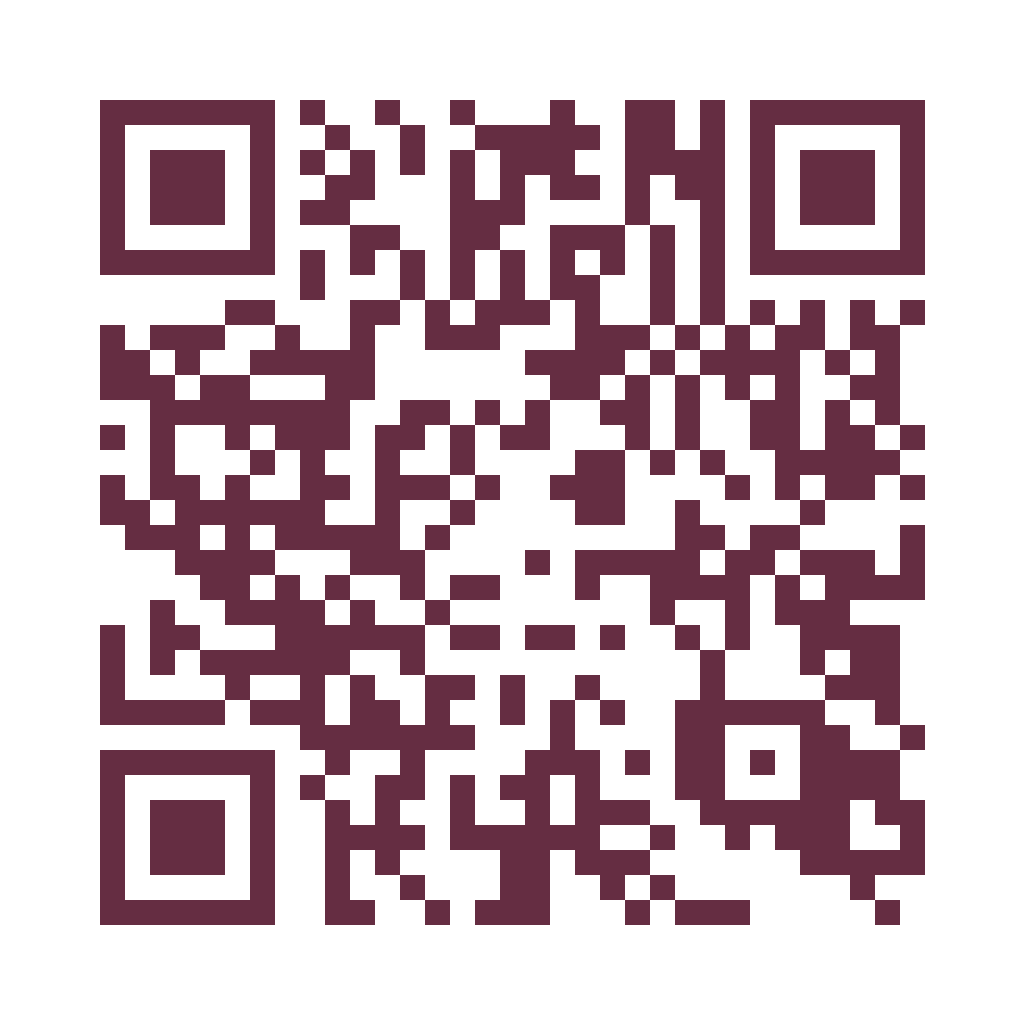
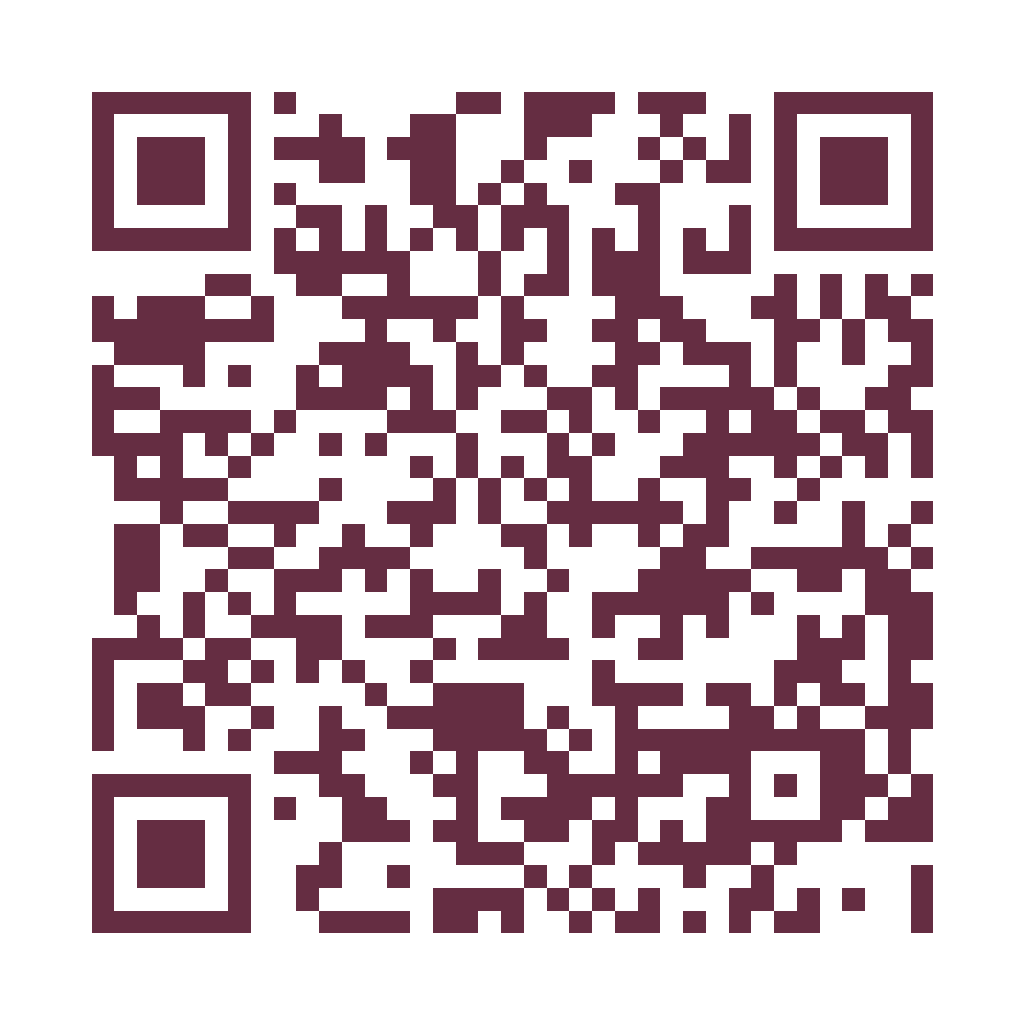
Update productionUrl to https://suprise-kohl-psi.vercel.app and regenerate QR assets

diff --git a/src/App.jsx b/src/App.jsx
@@ -17,6 +17,35 @@ import { QrCode, X, ExternalLink, Printer } from 'lucide-react';
 export default function App() {
   const [hasOpenedIntro, setHasOpenedIntro] = useState(false);
   const [showQrModal, setShowQrModal] = useState(false);
+  const [liveQrDataUrl, setLiveQrDataUrl] = useState('/assets/qr-code.png');
+  const [activeUrl, setActiveUrl] = useState(loveStoryConfig.productionUrl);
+
+  useEffect(() => {
+    const currentOrigin =
+      typeof window !== 'undefined' && window.location.origin.startsWith('http') && !window.location.origin.includes('localhost')
+        ? window.location.origin
+        : loveStoryConfig.productionUrl;
+
+    setActiveUrl(currentOrigin);
+
+    import('qrcode').then((QRCodeModule) => {
+      const qrcode = QRCodeModule.default || QRCodeModule;
+      qrcode
+        .toDataURL(currentOrigin, {
+          errorCorrectionLevel: 'H',
+          margin: 3,
+          width: 800,
+          color: {
+            dark: '#652D42',
+            light: '#FFFFFF',
+          },
+        })
+        .then((url) => {
+          setLiveQrDataUrl(url);
+        })
+        .catch(() => {});
+    }).catch(() => {});
+  }, []);
 
   // Scroll to top when opening or replaying
   const handleOpenIntro = () => {
@@ -162,11 +191,15 @@ export default function App() {
               {/* QR Image */}
               <div className="p-3 bg-white rounded-2xl border border-blush-100 shadow-sm inline-block mb-3">
                 <img
-                  src="/assets/qr-code.png"
+                  src={liveQrDataUrl}
                   alt="QR Code"
                   className="w-48 h-48 object-contain mx-auto"
                 />
               </div>
+
+              <p className="text-[11px] font-mono text-dustyRose-dark truncate max-w-xs mx-auto mb-2">
+                {activeUrl}
+              </p>
 
               <p className="text-xs text-burgundy-700/80 mb-4 px-2">
                 Point your iPhone Camera at this code to open the site directly in Safari.
@@ -185,8 +218,8 @@ export default function App() {
                 </a>
 
                 <a
-                  href="/assets/qr-code.png"
-                  download="Amrutha-QR-Code.png"
+                  href={liveQrDataUrl}
+                  download="Amrutha-Love-QR-Code.png"
                   className="touch-target w-full py-2.5 px-4 rounded-xl bg-blush-100 hover:bg-blush-200 text-burgundy-800 text-xs font-medium flex items-center justify-center gap-2 transition-all"
                 >
                   <span>Download High-Res PNG</span>

diff --git a/src/data/loveStory.js b/src/data/loveStory.js
@@ -274,5 +274,5 @@ export const loveStoryConfig = {
   // --------------------------------------------------------------------------
   // Set your final Vercel or Netlify HTTPS URL here.
   // The QR generator script reads directly from this variable!
-  productionUrl: "https://its-always-us.vercel.app", // [EDITABLE: Update with your deployed Vercel domain]
+  productionUrl: "https://suprise-kohl-psi.vercel.app",
 };

diff --git a/public/printable-qr-card.html b/public/printable-qr-card.html
@@ -183,7 +183,7 @@
     </div>
 
     <div class="destination-url">
-      https://its-always-us.vercel.app
+      https://suprise-kohl-psi.vercel.app
     </div>
 
     <div class="footer-note">
